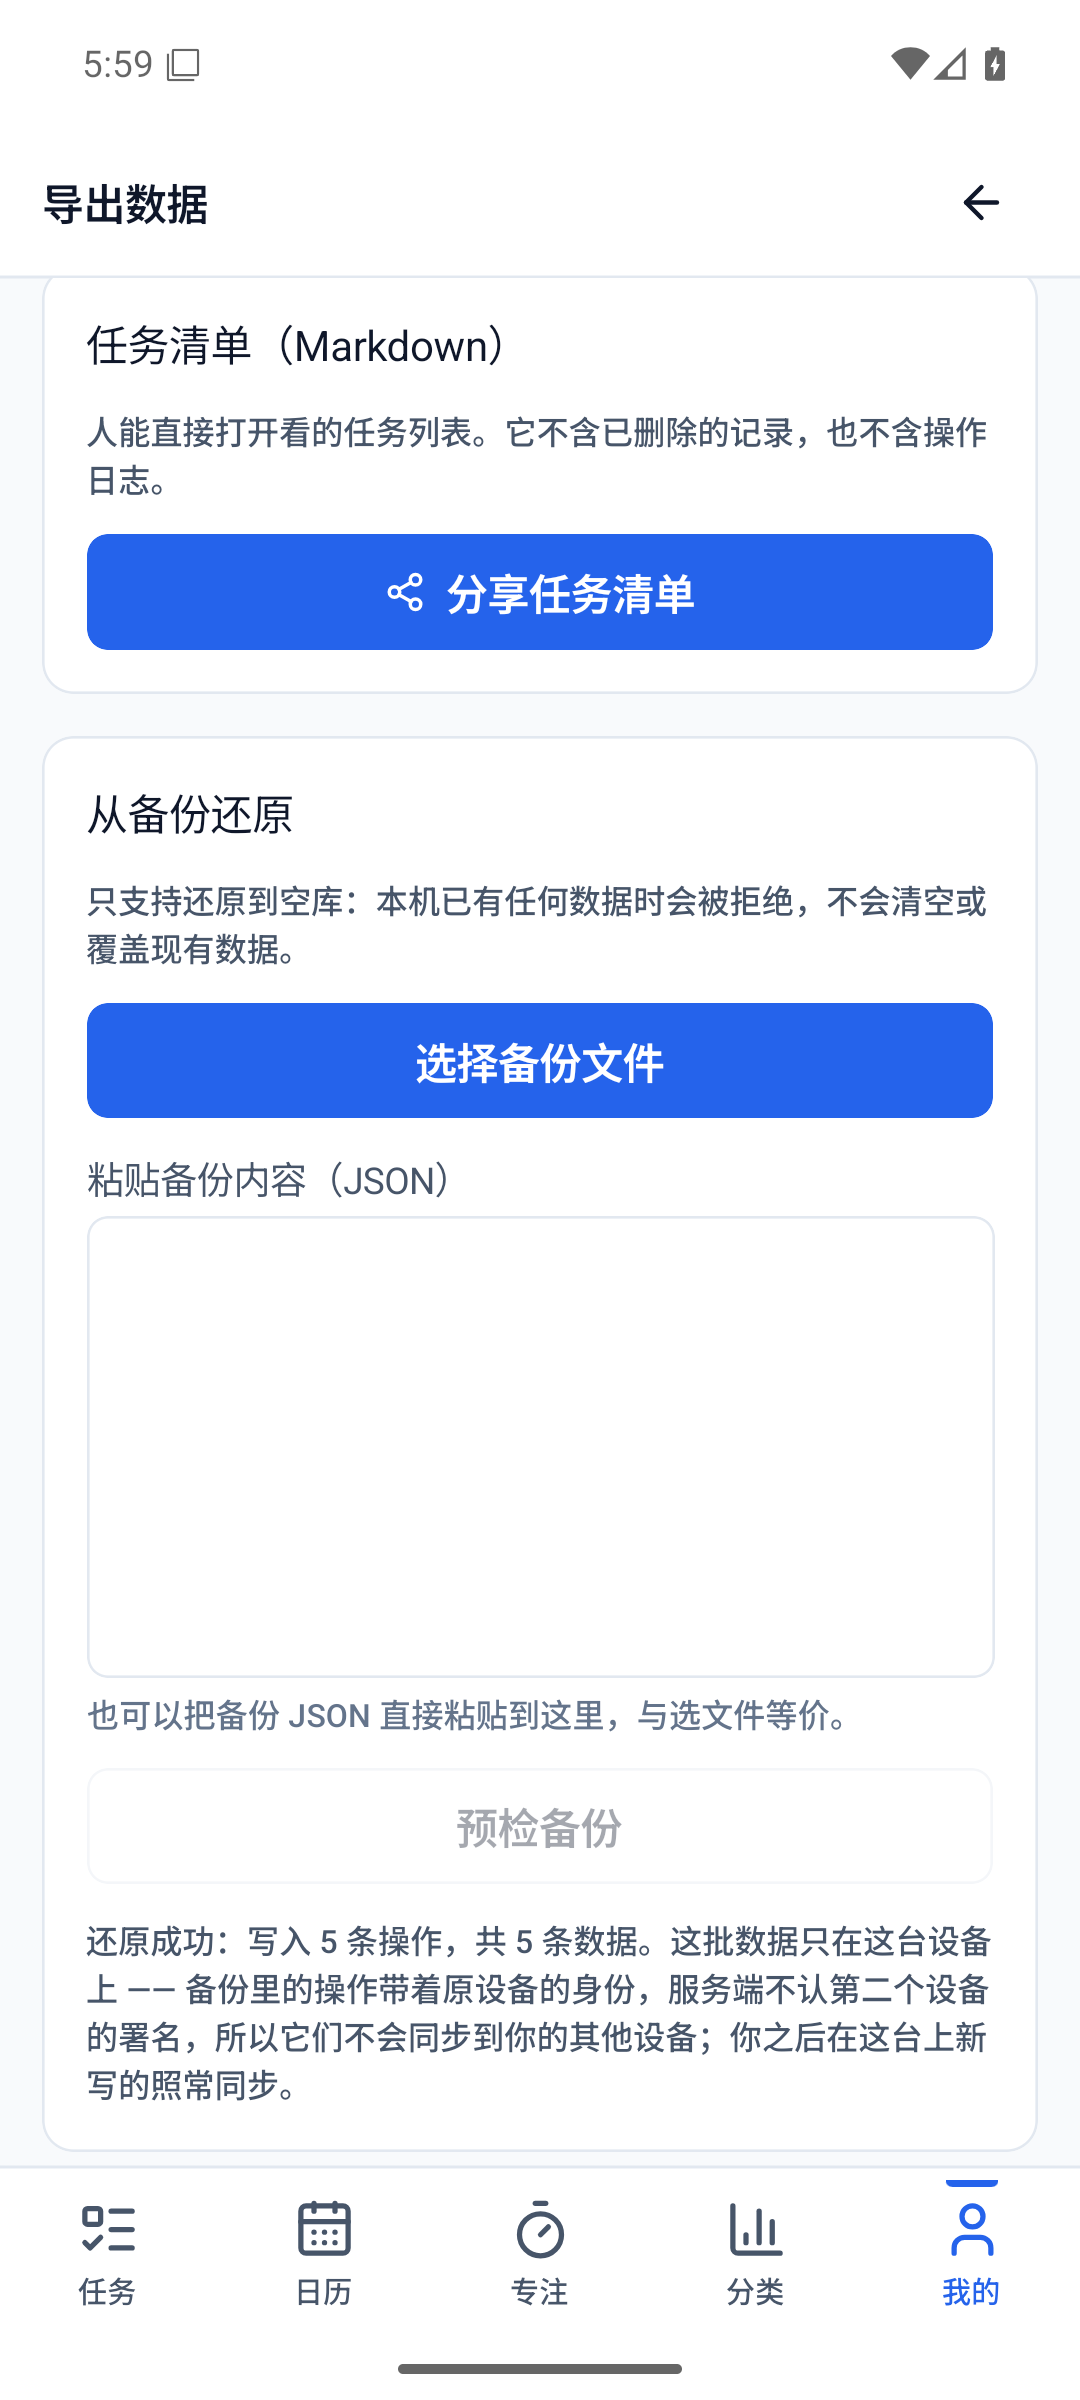
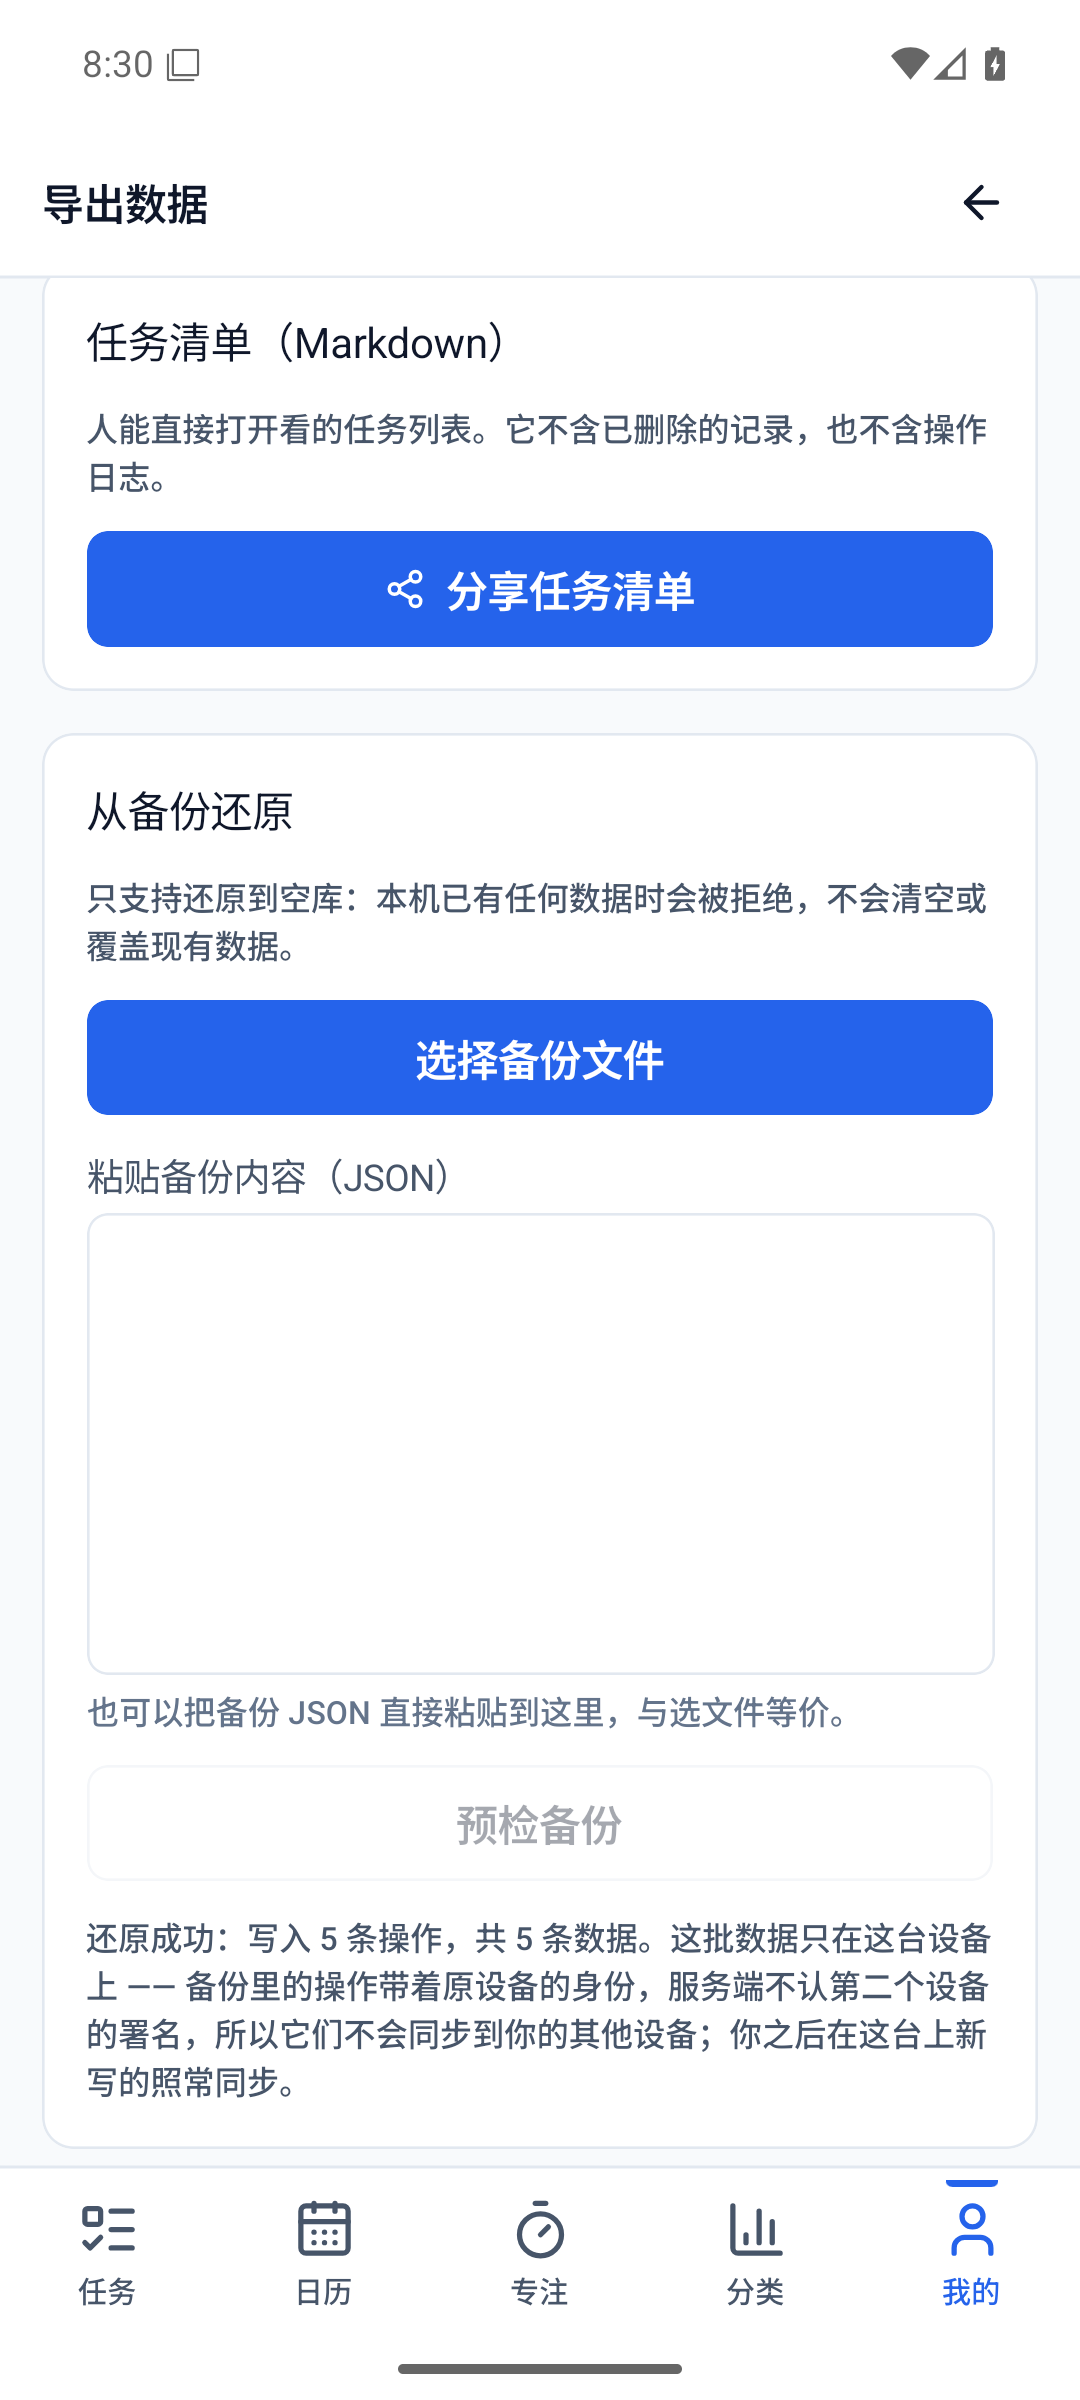
docs(mobile): 还原屏的判据引用改成当前产物那一趟，并把两张证据图换成重构后的重证
审计文档 P1-2 那行一直引 run23（02:46–02:51）的「24 项全绿」，而 run27（06:02）就已经是
26 项 —— 引用的运行落后于实际跑过的运行。这一轮在干净检出（detached 57b0780f）用真模拟器
emulator-5556 + 真服务端重跑 verify-mobile-restore：26 项 / 失败 0 / EXIT=0，两张证据图
（apps/mobile/evidence/android-restore-{done,tasks}.png）换成本轮产物并已人眼复核
（done 主蓝命中 16534，tasks 4689，均非空白）。

为什么这算"证据"而不是"继承"：批五交付后这个屏的宿主代码被动过（bb41e9fe 把移动端内联
布局换成 kit 的 Stack / Card gap），所以"还能跑通"此前只是推断。实测确认 ExportScreen 用的是
Card gap="loose" ×4 + Stack，零 HStack —— 因此 §7.2 那条「HStack / Text grow 在设备上永远
空态、无像素证据」的覆盖边界仍然成立，本条只补上「重构后的布局原语在真机上有过像素证据」
这一半，没有把它撤掉。

顺带登记两条读数纪律（都写进 goal §7.6）：
- 判据点数 ≠ 执行数：ok 的调用点 21 处，跑出来 26 条 ✅，凭据三格由一个循环点位打。
  "24 → 26"里只有 1 项来自 8ecc0575 新增的首条「web 载体可达」判据。
- 截图上成功句看着像 ASCII `--`，读真源确认是 —— (U+2014×2)，缝是设备字体渲染，不是文案缺陷，
  所以一个字都没改。

diff --git a/docs/research/multi-end-entry-coverage-audit.md b/docs/research/multi-end-entry-coverage-audit.md
@@ -70,7 +70,10 @@
 
 **P1-1 账号安全包未上移动端。** ✅ **已修（2026-10-02，goal 批四）**：「我的」页「账号与安全」入口 → SecurityScreen：改密码（`changePassword`，成功返回新会话 ⇒ **落盘轮换令牌并立即重验同步**——变异验证：拿掉落盘 ⇒ 判据以「登录凭据已失效」精确转红，12 绿 1 红）+ 通行密钥列表/改名/删除（409 最后一条如实报错）+ 空态如实说明"这台手机暂不支持注册，去电脑上注册"。判据 = `verify:mobile-account` 真机真服务端 13/0（`/api/test/create-user` 每轮建已知密码账号 → UI 改密 → 同步仍通 → `/api/login/email-password` 新密码换新会话 → 旧令牌 401）。**passkey 注册登记排除**：移动端无 WebAuthn 平台桥（`auth/passkey-host.ts` 是结论不是占位），接原生模块时只改那一个文件。原文：~~改密码（PasswordPanel，App.tsx:2163）、通行密钥增删改名（PasskeyPanel.tsx:150-200）web 全有；移动端只有魔法链接登录做兜底，`changePassword` / `listPasskeys` 等 hosted-auth 十余个函数零 import。~~
 
-**P1-2 自家备份还原未上移动端。** ✅ **已修（2026-10-03，goal 批五）**：「导出数据」页新增**「从备份还原」**卡 —— 警示"只支持还原到空库" → 选文件（系统选择器）**或**粘贴 JSON 两条路 → `parseExportDocument` 预检并展示 counts → `restoreIntoEmptyTarget` → 界面数得见还原出的任务。判据 = `verify:mobile-restore` 真模拟器 + 真服务端零 mock，**24 项全绿 / exit 0**（run23，02:46–02:51）：真浏览器导出 → 截断版与垃圾内容**都被预检拒绝且说出人话**（一个字节都不写）→ 选文件读出「任务 3 · 清单 1 · 标签 1，5 条操作日志」→ 确认后任务列表 3/3（截图两张人已看）→ 还原后同步**不落失败态**，且手机自己写的那条 op 20s 内出现在服务端。
+**P1-2 自家备份还原未上移动端。** ✅ **已修（2026-10-03，goal 批五）**：「导出数据」页新增**「从备份还原」**卡 —— 警示"只支持还原到空库" → 选文件（系统选择器）**或**粘贴 JSON 两条路 → `parseExportDocument` 预检并展示 counts → `restoreIntoEmptyTarget` → 界面数得见还原出的任务。判据 = `verify:mobile-restore` 真模拟器 + 真服务端零 mock，**当前产物（`57b0780f`）26 项全绿 / exit 0**（2026-10-03 08:26–08:35，emulator-5556）：真浏览器导出 → 截断版与垃圾内容**都被预检拒绝且说出人话**（一个字节都不写）→ 选文件读出「任务 3 · 清单 1 · 标签 1，5 条操作日志」→ 确认后任务列表 3/3（截图两张人已看）→ 还原后同步**不落失败态**，且手机自己写的那条 op 20s 内出现在服务端。
+
+> 🔴 **这一行原先写的是「24 项全绿（run23，02:46–02:51）」，那是引用落后**：run27（06:02）就已经是 26 项（其间 `8ecc0575` 给脚本加了首条「web 载体可达」判据，把"等 pm clear 之后才发现连不上"变成开局就判）。2026-10-03 08:26 这一轮是在移动端 UI 换成 `Stack` / `Card gap` 重构**之后**重跑的，`apps/mobile/evidence/android-restore-{done,tasks}.png` 两张证据图也已换成这一轮的产物。
+> 另记一条读数纪律：**判据点数 ≠ 执行数** —— 脚本里 `ok` 的**调用点** 21 处，跑出来的 ✅ 是 26 条，因为凭据那三格（服务器地址 / 访问令牌 / 加密口令）由一个循环点位打。引用"N 项"时要说清是哪一趟，而不是哪一份脚本。
 ⚠ **三条边界，都不算已验或不算已修**：
 ① **还原回来的数据只在这台设备上** —— `appendImported` 把这些 op 标成"不进上传队列"，因为备份里的 op 带的是**原设备**的 `clientId`，而服务端 `validateOp` 对不匹配的署名逐条回 `INVALID_CLIENT_ID`（`server/src/sync/services/validation.service.ts:75`）。这是既有设计（`packages/storage/src/db-op-log-store.ts:100`/`:161` 明写"不要为了让它也能上传把 source 改成 'local'"），**本轮只把界面文案改对**（原来那句"配置同步后会自动上行"是假的，见 traps #138）；"还原后多端可见"要成立需要一条新裁决（还原时按本机 clientId 重签），**未做**。
 ② **iOS 的"选文件"没有原生读取模块**（RN 0.84.1 在 Android 上根本读不出本机 URI，只能自带模块，见 traps #124；iOS 侧退到 RN 的 blob 通道，未在模拟器验证）。

diff --git a/docs/plans/goal-multi-end-coverage.md b/docs/plans/goal-multi-end-coverage.md
@@ -279,3 +279,32 @@ CI 的唯一形态就是干净检出，所以"干净检出上必红"本身就是
 📌 **顺手把这三笔有没有影响四端重装也算了一遍**：`6834b4ae..HEAD` 共 7 个文件，其中打包输入（`apps/mobile/src` / `apps/web/src` / `packages/` / `apps/desktop*`）
 命中 **0**（改的是 server 测试与文档）⇒ §7.2 那两轮重装判据（android 4036 / ios 4136 / mac 1137 / windows 四条）
 仍然是当前状态，不需要为这三笔重跑。
+
+### 7.6 ✅ 还原屏在 UI 重构**之后**的设备级重证（26 项 / 失败 0，2026-10-03 08:26–08:35）
+
+批五当初交付时，审计文档 §3 的 P1-2 那行引的是 **run23 = 24 项**（02:46–02:51）。
+此后这个屏动过两次：`8ecc0575` 给脚本加了首条「web 载体可达」判据，`bb41e9fe` 把
+`SecurityScreen` 的内联布局换成了 kit 的 `Stack` / `Card gap`。所以"还原屏还能跑通"
+在 08:26 之前只是**继承**，不是**证据**。这一轮把它变成证据：
+
+| 项 | 实测 |
+|---|---|
+| 被测产物 | 干净检出 `/tmp/heyta-ios-ab`（detached `57b0780f`），`vite preview --port 4322` 起 web 载体（HTTP 200） |
+| 设备 | `HEYTA_E2E_SERIAL=emulator-5556`（在线的是这台；§7.2 记过 5554 不在）+ `PORT=3100` 真服务端 |
+| 结果 | **通过 26 项，失败 0 项**，`EXIT=0`（日志 `/tmp/g5-restore-b27.log`，末行「✅ 移动端备份还原：真机全链路通过」） |
+| 截图 | `apps/mobile/evidence/android-restore-{done,tasks}.png` 已换成本轮。**人真的看了**：done 图是「已从备份还原 3 条任务 —— 只在这台设备上…」+ 三条 `backup-task-*` + `backup-tag-1` chip；tasks 图是列表页 3/3 |
+| 聚合值 | done `1080x2400 内容=13.8% 主蓝=16534 透明=false 空白=false`；tasks `1080x2400 内容=11.9% 主蓝=4689`（主蓝命中 ⇒ §7 第 82 条那条"非空白不等于是这个界面"的判据成立） |
+
+🔴 **一条差点被我改成"缺陷"的东西**：done 图上的成功句看着像 ASCII 的 `--`（两个短横中间有缝）。
+读真源确认 `mobile.restore.done` 里是 `——`（两个 U+2014），缝是**设备字体的渲染**，
+不是文案、也不是拼接错误 ⇒ **没有动任何文案**。截图上"看着不对"要先回到源字符再定性。
+
+📌 **读数量级纪律（写进 B28 同族）**：`ok` 在这份脚本里的**调用点**是 21 处，
+跑出来的 ✅ 是 **26** 条 —— 凭据三格（服务器地址 / 访问令牌 / 加密口令）由一个循环点位打。
+所以"24 → 26"里只有 1 项来自 `8ecc0575` 新增判据，其余是**同一份脚本在两趟里的执行计数差**，
+不能读成"又补了 2 条断言"。引用 N 项必须带**哪一趟**（时刻 + 日志名）。
+
+这条同时**收窄**了 §7.2 里那条覆盖边界：那节写的是 `HStack` / `grow` 只活在通行密钥列表行、
+设备上永远是空态 ⇒ 无像素证据。**那条仍然成立**（还原屏用的是 `Stack` / `Card gap`，
+不是 `HStack`），本轮补上的是"重构后的移动端布局原语在真机上有过像素证据"这一半，
+不是把那条边界撤掉。
